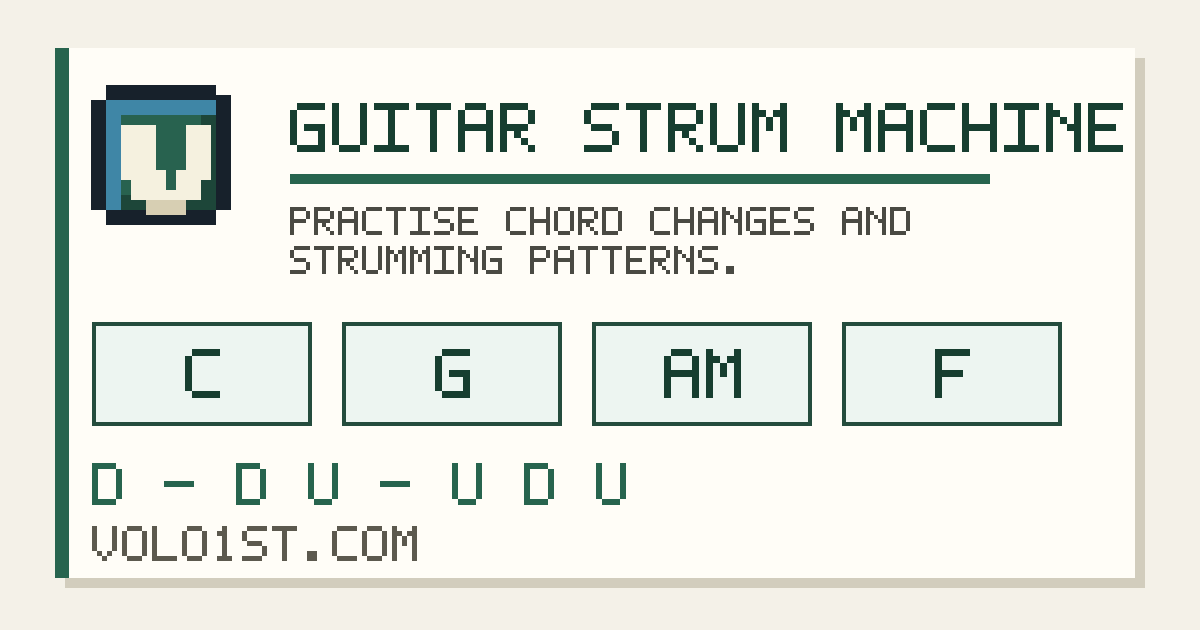
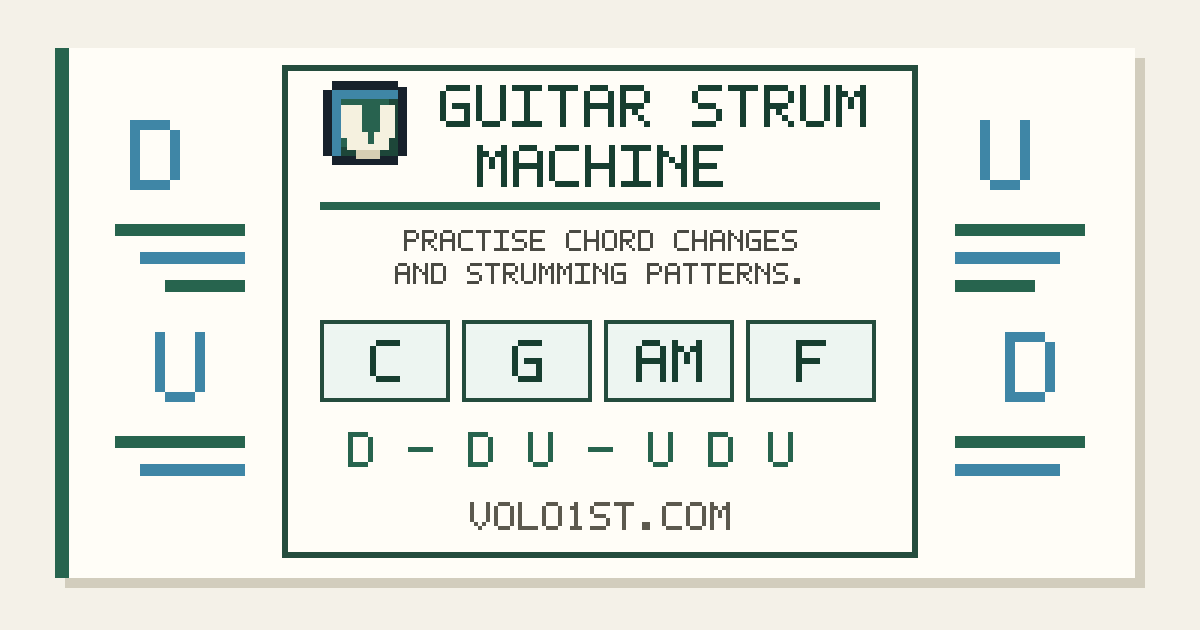
Make guitar share card square-crop safe

Changed region(s): [[0.0617, 0.0905, 0.9558, 0.9048]]

diff --git a/scripts/generate-share-card.js b/scripts/generate-share-card.js
@@ -147,23 +147,44 @@ fillRect(0, 0, width, height, '#f4f1e8');
 fillRect(65, 58, 1080, 530, '#d2cdbd');
 fillRect(55, 48, 1080, 530, '#fffdf7');
 fillRect(55, 48, 14, 530, '#27644e');
-drawLogo(86, 80, 5);
-drawText('GUITAR STRUM MACHINE', 290, 103, 7, '#173e30');
-fillRect(290, 174, 700, 10, '#27644e');
-drawText('PRACTISE CHORD CHANGES AND', 290, 207, 4, '#4a4a43');
-drawText('STRUMMING PATTERNS.', 290, 246, 4, '#4a4a43');
+
+fillRect(282, 65, 636, 493, '#244c3d');
+fillRect(288, 71, 624, 481, '#fffdf7');
+
+drawText('D', 130, 120, 10, '#3f86a6');
+fillRect(115, 224, 130, 12, '#27644e');
+fillRect(140, 252, 105, 12, '#3f86a6');
+fillRect(165, 280, 80, 12, '#27644e');
+drawText('U', 155, 332, 10, '#3f86a6');
+fillRect(115, 436, 130, 12, '#27644e');
+fillRect(140, 464, 105, 12, '#3f86a6');
+
+drawText('U', 980, 120, 10, '#3f86a6');
+fillRect(955, 224, 130, 12, '#27644e');
+fillRect(955, 252, 105, 12, '#3f86a6');
+fillRect(955, 280, 80, 12, '#27644e');
+drawText('D', 1005, 332, 10, '#3f86a6');
+fillRect(955, 436, 130, 12, '#27644e');
+fillRect(955, 464, 105, 12, '#3f86a6');
+
+drawLogo(320, 78, 3);
+drawText('GUITAR STRUM', 440, 85, 6, '#173e30');
+drawText('MACHINE', 477, 145, 6, '#173e30');
+fillRect(320, 202, 560, 8, '#27644e');
+drawText('PRACTISE CHORD CHANGES', 404, 230, 3, '#4a4a43');
+drawText('AND STRUMMING PATTERNS.', 395, 263, 3, '#4a4a43');
 
 const chordLabels = ['C', 'G', 'AM', 'F'];
 for (let index = 0; index < chordLabels.length; index += 1) {
-  const x = 92 + index * 250;
-  fillRect(x, 322, 220, 104, '#244c3d');
-  fillRect(x + 4, 326, 212, 96, '#edf5f1');
+  const x = 320 + index * 142;
+  fillRect(x, 320, 130, 82, '#244c3d');
+  fillRect(x + 4, 324, 122, 74, '#edf5f1');
   const label = chordLabels[index];
-  drawText(label, x + (220 - label.length * 42 + 7) / 2, 349, 7, '#173e30');
+  drawText(label, x + (130 - label.length * 36 + 6) / 2, 340, 6, '#173e30');
 }
 
-drawText('D - D U - U D U', 92, 463, 6, '#27644e');
-drawText('VOLO1ST.COM', 92, 526, 5, '#5c594e');
+drawText('D - D U - U D U', 348, 432, 5, '#27644e');
+drawText('VOLO1ST.COM', 470, 502, 4, '#5c594e');
 
 const header = Buffer.alloc(13);
 header.writeUInt32BE(width, 0);

diff --git a/tools/guitar-strumming/index.html b/tools/guitar-strumming/index.html
@@ -7,7 +7,7 @@
   <meta property="og:type" content="website" />
   <meta property="og:title" content="Guitar Strum Machine" />
   <meta property="og:description" content="Practise chord changes and strumming patterns with a looping guitar track." />
-  <meta property="og:image" content="https://volo1st.com/assets/share/guitar-strum-machine.png?v=fdf79afa45fd" />
+  <meta property="og:image" content="https://volo1st.com/assets/share/guitar-strum-machine.png?v=1c9ac2f0925d" />
   <meta property="og:image:type" content="image/png" />
   <meta property="og:image:width" content="1200" />
   <meta property="og:image:height" content="630" />

diff --git a/website-roadmap.md b/website-roadmap.md
@@ -254,7 +254,7 @@ The CSV-to-ABA trial can continue in parallel because its external operator step
 | 21 September 2026 | Do not plan a general technology blog. | A recurring blog does not have enough expected value for the intended audience or the owner's current goals. Publish only specific material with a clear audience and purpose. |
 | 30 September 2026 | Use one semantic site shell with per-tool accent token sets. | Shared HTML structure and class names make maintained pages identifiable as one site. A tool card uses the accent of its destination. Separate accent tokens preserve each tool's subject identity and permit later theme work. CSV-to-ABA version 1 remains unchanged. |
 | 30 September 2026 | Use an original pixel-art `V` block as the site icon. | The icon gives the site a playful identity without copying Nintendo artwork. |
-| 1 October 2026 | Add a generic Open Graph preview to Guitar Strum Machine without a fixed Open Graph URL. | A static preview can improve link presentation without a proprietary SDK or server. Omitting a fixed URL prevents the metadata from replacing an arrangement query. Clients can ignore the metadata without changing current sharing behavior. |
+| 1 October 2026 | Add a generic Open Graph preview to Guitar Strum Machine without a fixed Open Graph URL. Keep essential image content inside the central square-safe area. | A static preview can improve link presentation without a proprietary SDK or server. A landscape image works in WhatsApp, while the central safe area supports WeChat's square crop. Omitting a fixed URL prevents the metadata from replacing an arrangement query. Clients can ignore the metadata without changing current sharing behavior. |
 
 ### Site identity verification
 
@@ -265,7 +265,10 @@ The CSV-to-ABA trial can continue in parallel because its external operator step
 
 - On 1 October 2026, the owner approved the retro pixel preview image in the local preview.
 - The automated check verifies the metadata, image hash, Portable Network Graphics format, and 1200 by 630 pixel dimensions.
-- WeChat verification needs the public deployment. The local network address is not available to an external preview service.
+- The public image and metadata were available after deployment.
+- Safari sharing produced a WeChat card with the Open Graph title and description. WeChat cropped the landscape image to a square.
+- WhatsApp displayed the landscape card correctly.
+- Sharing from the WeChat browser produced a plain link. This fallback is accepted because the site does not use the WeChat software development kit.
 
 ## 11. Current next package
 
